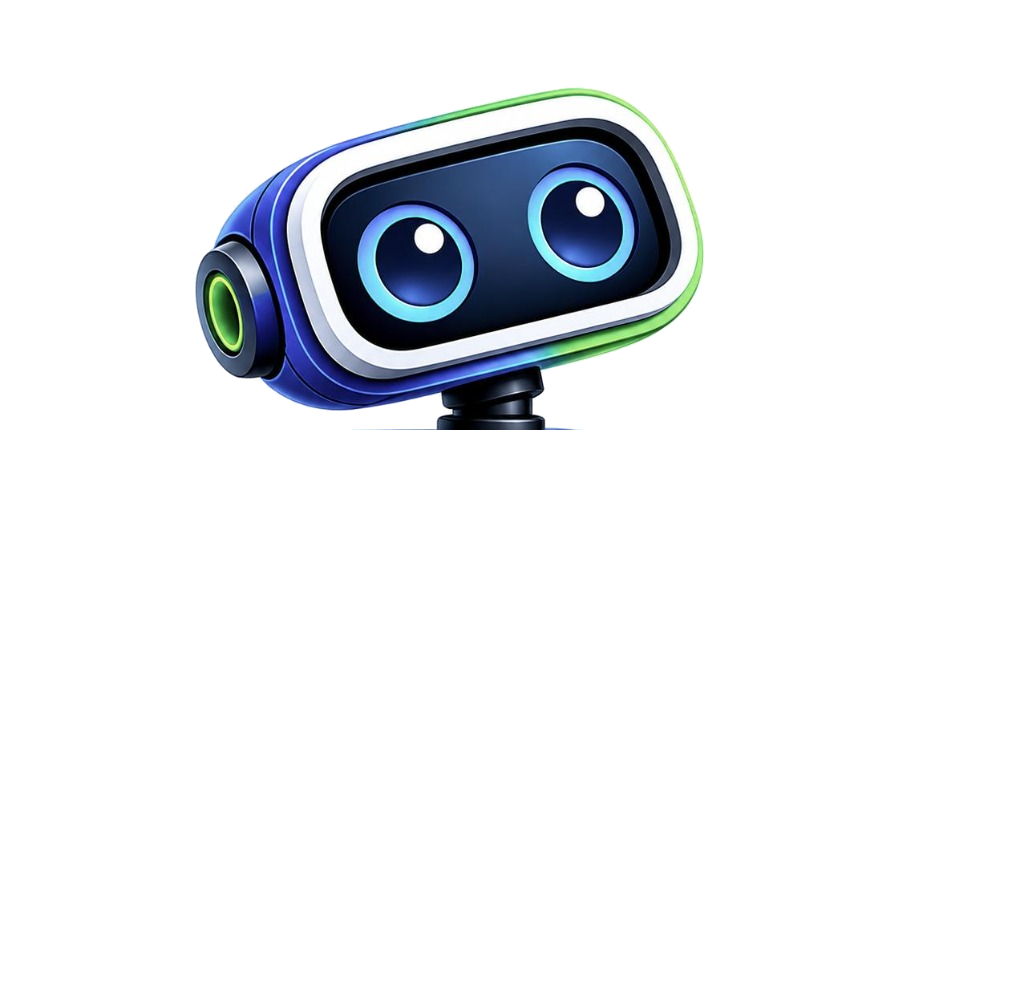
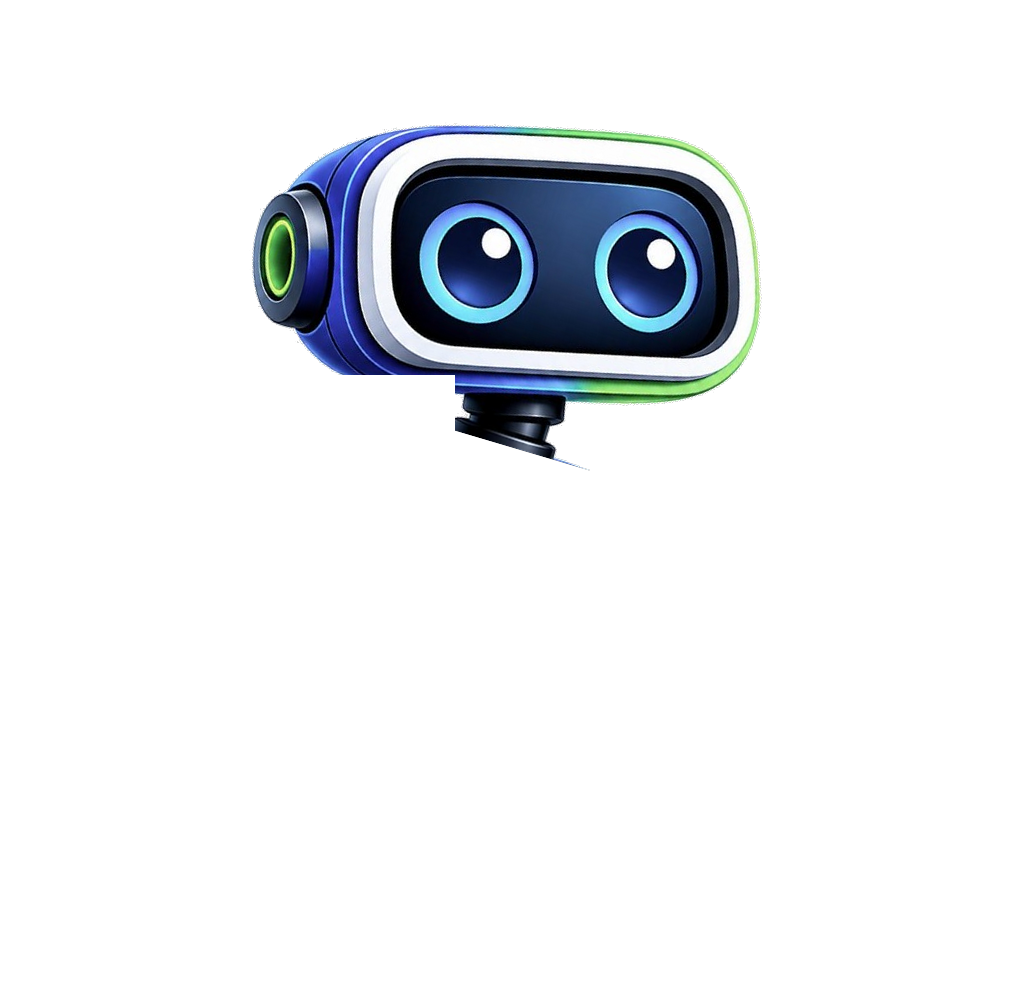
Fix robot head alignment: perfectly upright and horizontally level neutral position, centered neck pivot above torso, and smooth cursor tracking offsets

Changed region(s): [[0.1875, 0.0912, 0.75, 0.4863]]

diff --git a/frontend/components/sections/RobotMascot.tsx b/frontend/components/sections/RobotMascot.tsx
@@ -34,7 +34,7 @@ export default function RobotMascot() {
     container.appendChild(renderer.domElement);
 
     // ==============================================================
-    // 2. LIGHTING RIG (Matching reference studio lighting)
+    // 2. STUDIO LIGHTING RIG
     // ==============================================================
     const ambientLight = new THREE.AmbientLight(0xffffff, 1.15);
     scene.add(ambientLight);
@@ -63,16 +63,15 @@ export default function RobotMascot() {
     const planeW = 2.68;
     const planeH = 2.58;
 
-    // Exact neck center calculated from reference artwork
-    // pixel_x = 465 / 1024 => u = 0.4541
-    // pixel_y = 415 / 987  => v = 0.5795
-    const neckX = (0.4541 - 0.5) * planeW; // ~ -0.123
-    const neckY = (0.5795 - 0.5) * planeH; // ~ +0.205
+    // Corrected Neck Center (Aligned directly above torso center x=498)
+    // pixel_x = 498 / 1024 => u = 0.4863
+    // pixel_y = 432 / 987  => v = 0.5623
+    const neckX = (0.4863 - 0.5) * planeW; // ~ -0.0366 (centred symmetrically)
+    const neckY = (0.5623 - 0.5) * planeH; // ~ +0.1607 (centred at neck collar)
 
-    // Local eye coordinates relative to neck pivot
-    // eye_center = (485, 245)
-    const eyesX = (485 / 1024 - 0.5) * planeW;
-    const eyesY = ((987 - 245) / 987 - 0.5) * planeH;
+    // Local eye coordinates relative to neck pivot for level head
+    const eyesX = (553 / 1024 - 0.5) * planeW;
+    const eyesY = ((987 - 265) / 987 - 0.5) * planeH;
     const localEyeX = eyesX - neckX;
     const localEyeY = eyesY - neckY;
 
@@ -95,7 +94,6 @@ export default function RobotMascot() {
         const dy = (y - centerY) / radY;
         const d2 = dx * dx + dy * dy;
         if (d2 < 1.0) {
-          // Smooth cosine dome curve for 3D helmet/torso volume
           const zDisp = Math.cos(d2 * Math.PI * 0.5) * bulge;
           pos.setZ(i, zDisp);
         }
@@ -108,7 +106,7 @@ export default function RobotMascot() {
     const bodyGroup = new THREE.Group();
     robotGroup.add(bodyGroup);
 
-    const bodyGeo = createCurvedPlane(planeW, planeH, 0.12, 0.05, -0.25, 1.2, 0.9);
+    const bodyGeo = createCurvedPlane(planeW, planeH, 0.12, 0.0, -0.25, 1.2, 0.9);
     const bodyTexture = textureLoader.load('/images/robot/robot-body.png');
     bodyTexture.colorSpace = THREE.SRGBColorSpace;
     bodyTexture.generateMipmaps = true;
@@ -125,16 +123,18 @@ export default function RobotMascot() {
     bodyMesh.position.set(0, 0, 0);
     bodyGroup.add(bodyMesh);
 
-    // --- HEAD GROUP WITH NECK PIVOT (Entire Head Shell, Face, Eyes, Headphones) ---
-    // The HeadPivot is placed EXACTLY at the neck coordinate
+    // --- HEAD GROUP WITH CORRECTED UPRIGHT & CENTRED NECK PIVOT ---
+    // The HeadPivot is placed at the true centre of the neck connection
     const headPivot = new THREE.Group();
     headPivot.position.set(neckX, neckY, 0.04);
+    // Neutral rotation is perfectly level (0, 0, 0)
+    headPivot.rotation.set(0, 0, 0);
     robotGroup.add(headPivot);
 
     const headGroup = new THREE.Group();
     headPivot.add(headGroup);
 
-    // Head curved plane centered around helmet
+    // Head curved plane centered symmetrically around the upright helmet
     const headGeo = createCurvedPlane(planeW, planeH, 0.22, neckX + localEyeX, neckY + localEyeY, 0.75, 0.6);
     const headTexture = textureLoader.load('/images/robot/robot-head.png');
     headTexture.colorSpace = THREE.SRGBColorSpace;
@@ -149,7 +149,7 @@ export default function RobotMascot() {
       side: THREE.DoubleSide,
     });
     const headMesh = new THREE.Mesh(headGeo, headMat);
-    // Offset mesh so rotation happens exactly around the neck pivot
+    // Offset mesh so rotation happens exactly around the centred neck pivot
     headMesh.position.set(-neckX, -neckY, 0);
     headGroup.add(headMesh);
 
@@ -203,9 +203,9 @@ export default function RobotMascot() {
     // ==============================================================
     // 5. FULL-HEAD CURSOR TRACKING LOGIC
     // ==============================================================
-    // Target rotations for HeadPivot
-    let targetYaw = 0;   // Left-Right (-32° to +32°)
-    let targetPitch = 0; // Up-Down (-20° to +20°)
+    // Offsets from corrected neutral rotation (0, 0, 0)
+    let targetYaw = 0;   // Left-Right (-30° to +30°)
+    let targetPitch = 0; // Up-Down (-18° to +18°)
     let targetRoll = 0;  // Subtle natural roll
     let isTracking = false;
     let lastMoveTime = performance.now();
@@ -224,14 +224,14 @@ export default function RobotMascot() {
 
       // MOUSE LEFT -> HEAD TURNS LEFT (negative yaw)
       // MOUSE RIGHT -> HEAD TURNS RIGHT (positive yaw)
-      targetYaw = clampedX * 0.52; // ~30 degrees
+      targetYaw = clampedX * 0.48; // ~28 degrees
 
       // MOUSE UP -> HEAD TILTS UP (negative pitch)
       // MOUSE DOWN -> HEAD TILTS DOWN (positive pitch)
-      targetPitch = clampedY * 0.35; // ~20 degrees
+      targetPitch = clampedY * 0.32; // ~18 degrees
 
       // Subtle natural companion roll on diagonal turns
-      targetRoll = -clampedX * 0.09;
+      targetRoll = -clampedX * 0.07;
 
       isTracking = true;
       lastMoveTime = performance.now();
@@ -265,21 +265,21 @@ export default function RobotMascot() {
       animId = requestAnimationFrame(animate);
       const time = clock.getElapsedTime();
 
-      // Check if mouse stopped moving / left -> smoothly return to neutral + gentle idle look
+      // Check if mouse stopped moving / left -> smoothly return to corrected upright neutral position
       const timeSinceMove = performance.now() - lastMoveTime;
       if (!isTracking || timeSinceMove > 2200) {
-        // Idle wander: friendly inquisitive head motions
-        const idleYaw = Math.sin(time * 0.7) * 0.08 + Math.cos(time * 0.35) * 0.04;
-        const idlePitch = Math.sin(time * 0.9) * 0.05;
-        const idleRoll = -idleYaw * 0.12;
+        // Idle wander: subtle friendly micro-movement around upright neutral
+        const idleYaw = Math.sin(time * 0.7) * 0.04;
+        const idlePitch = Math.sin(time * 0.9) * 0.025;
+        const idleRoll = -idleYaw * 0.08;
 
-        targetYaw = THREE.MathUtils.lerp(targetYaw, idleYaw, 0.03);
-        targetPitch = THREE.MathUtils.lerp(targetPitch, idlePitch, 0.03);
-        targetRoll = THREE.MathUtils.lerp(targetRoll, idleRoll, 0.03);
+        targetYaw = THREE.MathUtils.lerp(targetYaw, idleYaw, 0.04);
+        targetPitch = THREE.MathUtils.lerp(targetPitch, idlePitch, 0.04);
+        targetRoll = THREE.MathUtils.lerp(targetRoll, idleRoll, 0.04);
       }
 
       // --- SMOOTH FULL-HEAD ROTATION INTERPOLATION ---
-      // Rotate the HeadPivot around the neck
+      // Rotate the HeadPivot cleanly around the centered neck connection
       headPivot.rotation.y = THREE.MathUtils.lerp(headPivot.rotation.y, targetYaw, 0.08);
       headPivot.rotation.x = THREE.MathUtils.lerp(headPivot.rotation.x, targetPitch, 0.08);
       headPivot.rotation.z = THREE.MathUtils.lerp(headPivot.rotation.z, targetRoll, 0.08);
@@ -287,7 +287,7 @@ export default function RobotMascot() {
       // --- ROBOT BODY IDLE BEHAVIOR ---
       // Body stays stationary per user specification, with only gentle breathing suspension
       robotGroup.position.y = -0.06 + Math.sin(time * 1.6) * 0.022;
-      robotGroup.rotation.z = Math.sin(time * 0.8) * 0.004;
+      robotGroup.rotation.z = Math.sin(time * 0.8) * 0.003;
 
       // Dynamic Eye Glow Pulse (Natural LED breathing)
       eyePointLight.intensity = 2.0 + Math.sin(time * 3.2) * 0.35;
